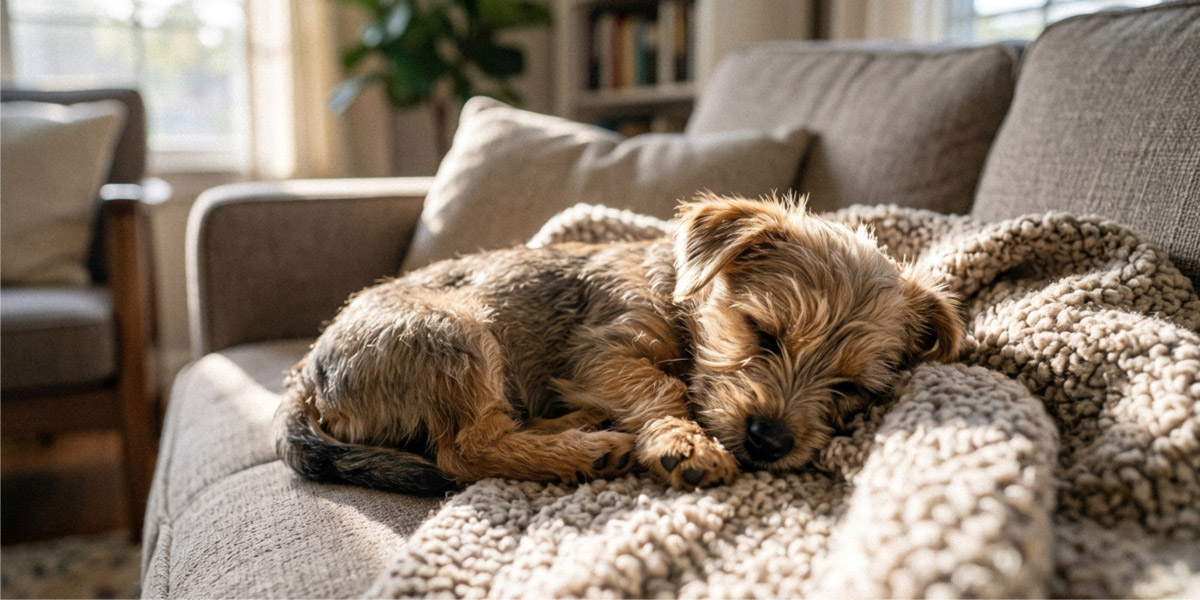
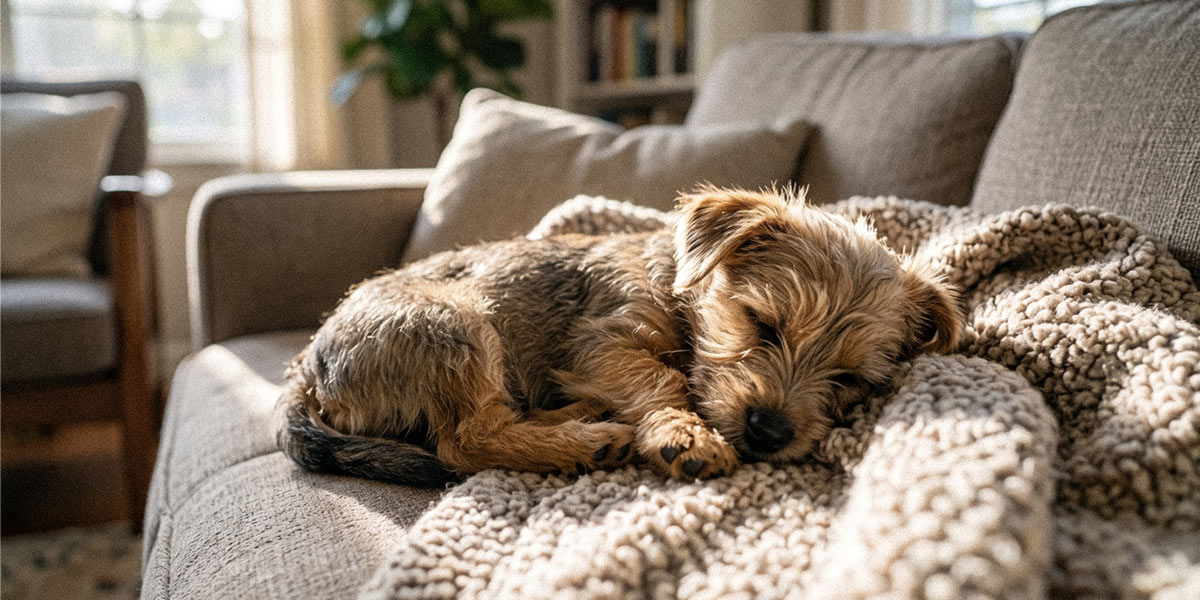
Fix classic Outlook issues found in Email on Acid
- Image blocks use a normal line height, so classic Outlook no longer
  crops the photos and header to a 28px strip
- Headings and the button use weight 700, because Arial at 800 turns
  into Arial Black on Windows
- The header logo is the <h1>; the impact line and 'Your receipt' are <h2>s
- Both photos re-exported under 200KB, and CLAUDE.md updated to match
- Classic Outlook screenshots (light, dark and before the fix) on index.html
- NOTES.md: my notes from 2026-10-20

diff --git a/dist/appeal-preview.html b/dist/appeal-preview.html
@@ -31,10 +31,10 @@
     <![endif]-->
     
       <!--[if !mso]><!-->
-        <link href="https://fonts.googleapis.com/css2?family=Nunito+Sans:wght@800&display=swap" rel="stylesheet" type="text/css">
+        <link href="https://fonts.googleapis.com/css2?family=Nunito+Sans:wght@700&display=swap" rel="stylesheet" type="text/css">
 <link href="https://fonts.googleapis.com/css2?family=Atkinson+Hyperlegible:wght@400;700&display=swap" rel="stylesheet" type="text/css">
         <style type="text/css">
-          @import url(https://fonts.googleapis.com/css2?family=Nunito+Sans:wght@800&display=swap);
+          @import url(https://fonts.googleapis.com/css2?family=Nunito+Sans:wght@700&display=swap);
 @import url(https://fonts.googleapis.com/css2?family=Atkinson+Hyperlegible:wght@400;700&display=swap);
         </style>
       <!--<![endif]-->
@@ -95,7 +95,7 @@
               <tr>
                 <td align="left" class="header" style="font-size:0px;padding:0;word-break:break-word;">
                   
-      <div style="font-family:'Atkinson Hyperlegible', Arial, sans-serif;font-size:17px;line-height:28px;text-align:left;color:#001f3d;"><img src="https://shadelourens.github.io/fernhollow-emails/assets/header.png" width="600" height="89" alt="Fernhollow Animal Alliance" style="display:block; width:100%; max-width:600px; height:auto; border:0; font-family:'Nunito Sans', Arial, sans-serif; font-size:26px; font-weight:800; color:#f8dcbf;"></div>
+      <div style="font-family:'Atkinson Hyperlegible', Arial, sans-serif;font-size:17px;line-height:normal;text-align:left;color:#001f3d;"><h1 style="margin:0;"><img src="https://shadelourens.github.io/fernhollow-emails/assets/header.png" width="600" height="89" alt="Fernhollow Animal Alliance" style="display:block; width:100%; max-width:600px; height:auto; border:0; font-family:'Nunito Sans', Arial, sans-serif; font-size:26px; font-weight:700; color:#f8dcbf;"></h1></div>
     
                 </td>
               </tr>
@@ -200,7 +200,7 @@
               <tr>
                 <td align="left" class="en__component en__component--imageblock" style="font-size:0px;padding:0 40px;word-break:break-word;">
                   
-      <div style="font-family:'Atkinson Hyperlegible', Arial, sans-serif;font-size:17px;line-height:28px;text-align:left;color:#001f3d;"><img src="https://shadelourens.github.io/fernhollow-emails/assets/biscuit.jpg" width="520" height="260" alt="Biscuit, a small scruffy puppy, sitting on green grass." style="
+      <div style="font-family:'Atkinson Hyperlegible', Arial, sans-serif;font-size:17px;line-height:normal;text-align:left;color:#001f3d;"><img src="https://shadelourens.github.io/fernhollow-emails/assets/biscuit.jpg" width="520" height="260" alt="Biscuit, a small scruffy puppy, sitting on green grass." style="
               display: block;
               width: 100%;
               max-width: 520px;
@@ -314,8 +314,8 @@
               <tr>
                 <td align="center" class="en__component en__component--textblock" style="font-size:0px;padding:0 28px 22px;word-break:break-word;">
                   
-      <div style="font-family:'Nunito Sans', Arial, sans-serif;font-size:21px;font-weight:800;line-height:29px;text-align:center;color:#001f3d;">$50 helps give a rescued dog vaccinations and a safe place to
-            recover.</div>
+      <div style="font-family:'Nunito Sans', Arial, sans-serif;font-size:21px;font-weight:700;line-height:29px;text-align:center;color:#001f3d;"><h2 style="margin:0; font-family:'Nunito Sans', Arial, sans-serif; font-size:21px; line-height:29px; font-weight:700; color:#001f3d;">$50 helps give a rescued dog vaccinations and a safe place to
+            recover.</h2></div>
     
                 </td>
               </tr>
@@ -327,7 +327,7 @@
         <tbody>
           <tr>
             <td align="center" bgcolor="#ffa000" role="presentation" style="border:none;border-radius:999px;cursor:auto;mso-padding-alt:17px 40px;background:#ffa000;" valign="middle">
-              <a href="https://shadelourens.github.io/fernhollow-portfolio/?utm_source=email&utm_medium=email&utm_campaign=second-chances&utm_content=give-50-button" style="display: inline-block; background: #ffa000; color: #001f3d; font-family: 'Nunito Sans', Arial, sans-serif; font-size: 18px; font-weight: 800; line-height: 120%; margin: 0; text-decoration: none; text-transform: none; padding: 17px 40px; mso-padding-alt: 0px; border-radius: 999px;" target="_blank">
+              <a href="https://shadelourens.github.io/fernhollow-portfolio/?utm_source=email&utm_medium=email&utm_campaign=second-chances&utm_content=give-50-button" style="display: inline-block; background: #ffa000; color: #001f3d; font-family: 'Nunito Sans', Arial, sans-serif; font-size: 18px; font-weight: 700; line-height: 120%; margin: 0; text-decoration: none; text-transform: none; padding: 17px 40px; mso-padding-alt: 0px; border-radius: 999px;" target="_blank">
                 Give $50 today
               </a>
             </td>

diff --git a/dist/appeal.html b/dist/appeal.html
@@ -31,10 +31,10 @@
     <![endif]-->
     
       <!--[if !mso]><!-->
-        <link href="https://fonts.googleapis.com/css2?family=Nunito+Sans:wght@800&display=swap" rel="stylesheet" type="text/css">
+        <link href="https://fonts.googleapis.com/css2?family=Nunito+Sans:wght@700&display=swap" rel="stylesheet" type="text/css">
 <link href="https://fonts.googleapis.com/css2?family=Atkinson+Hyperlegible:wght@400;700&display=swap" rel="stylesheet" type="text/css">
         <style type="text/css">
-          @import url(https://fonts.googleapis.com/css2?family=Nunito+Sans:wght@800&display=swap);
+          @import url(https://fonts.googleapis.com/css2?family=Nunito+Sans:wght@700&display=swap);
 @import url(https://fonts.googleapis.com/css2?family=Atkinson+Hyperlegible:wght@400;700&display=swap);
         </style>
       <!--<![endif]-->
@@ -95,7 +95,7 @@
               <tr>
                 <td align="left" class="header" style="font-size:0px;padding:0;word-break:break-word;">
                   
-      <div style="font-family:'Atkinson Hyperlegible', Arial, sans-serif;font-size:17px;line-height:28px;text-align:left;color:#001f3d;"><img src="https://shadelourens.github.io/fernhollow-emails/assets/header.png" width="600" height="89" alt="Fernhollow Animal Alliance" style="display:block; width:100%; max-width:600px; height:auto; border:0; font-family:'Nunito Sans', Arial, sans-serif; font-size:26px; font-weight:800; color:#f8dcbf;"></div>
+      <div style="font-family:'Atkinson Hyperlegible', Arial, sans-serif;font-size:17px;line-height:normal;text-align:left;color:#001f3d;"><h1 style="margin:0;"><img src="https://shadelourens.github.io/fernhollow-emails/assets/header.png" width="600" height="89" alt="Fernhollow Animal Alliance" style="display:block; width:100%; max-width:600px; height:auto; border:0; font-family:'Nunito Sans', Arial, sans-serif; font-size:26px; font-weight:700; color:#f8dcbf;"></h1></div>
     
                 </td>
               </tr>
@@ -200,7 +200,7 @@
               <tr>
                 <td align="left" class="en__component en__component--imageblock" style="font-size:0px;padding:0 40px;word-break:break-word;">
                   
-      <div style="font-family:'Atkinson Hyperlegible', Arial, sans-serif;font-size:17px;line-height:28px;text-align:left;color:#001f3d;"><img src="https://shadelourens.github.io/fernhollow-emails/assets/biscuit.jpg" width="520" height="260" alt="Biscuit, a small scruffy puppy, sitting on green grass." style="
+      <div style="font-family:'Atkinson Hyperlegible', Arial, sans-serif;font-size:17px;line-height:normal;text-align:left;color:#001f3d;"><img src="https://shadelourens.github.io/fernhollow-emails/assets/biscuit.jpg" width="520" height="260" alt="Biscuit, a small scruffy puppy, sitting on green grass." style="
               display: block;
               width: 100%;
               max-width: 520px;
@@ -314,8 +314,8 @@
               <tr>
                 <td align="center" class="en__component en__component--textblock" style="font-size:0px;padding:0 28px 22px;word-break:break-word;">
                   
-      <div style="font-family:'Nunito Sans', Arial, sans-serif;font-size:21px;font-weight:800;line-height:29px;text-align:center;color:#001f3d;">$50 helps give a rescued dog vaccinations and a safe place to
-            recover.</div>
+      <div style="font-family:'Nunito Sans', Arial, sans-serif;font-size:21px;font-weight:700;line-height:29px;text-align:center;color:#001f3d;"><h2 style="margin:0; font-family:'Nunito Sans', Arial, sans-serif; font-size:21px; line-height:29px; font-weight:700; color:#001f3d;">$50 helps give a rescued dog vaccinations and a safe place to
+            recover.</h2></div>
     
                 </td>
               </tr>
@@ -327,7 +327,7 @@
         <tbody>
           <tr>
             <td align="center" bgcolor="#ffa000" role="presentation" style="border:none;border-radius:999px;cursor:auto;mso-padding-alt:17px 40px;background:#ffa000;" valign="middle">
-              <a href="https://shadelourens.github.io/fernhollow-portfolio/?utm_source=email&utm_medium=email&utm_campaign=second-chances&utm_content=give-50-button" style="display: inline-block; background: #ffa000; color: #001f3d; font-family: 'Nunito Sans', Arial, sans-serif; font-size: 18px; font-weight: 800; line-height: 120%; margin: 0; text-decoration: none; text-transform: none; padding: 17px 40px; mso-padding-alt: 0px; border-radius: 999px;" target="_blank">
+              <a href="https://shadelourens.github.io/fernhollow-portfolio/?utm_source=email&utm_medium=email&utm_campaign=second-chances&utm_content=give-50-button" style="display: inline-block; background: #ffa000; color: #001f3d; font-family: 'Nunito Sans', Arial, sans-serif; font-size: 18px; font-weight: 700; line-height: 120%; margin: 0; text-decoration: none; text-transform: none; padding: 17px 40px; mso-padding-alt: 0px; border-radius: 999px;" target="_blank">
                 Give $50 today
               </a>
             </td>

diff --git a/index.html b/index.html
@@ -389,6 +389,20 @@
                 >dark mode</a
               >
             </div>
+            <!-- Classic Outlook cropped the images until the image blocks got a normal line height -->
+            <div class="inbox">
+              <strong>Outlook on Windows</strong>
+              <a href="screenshots/inbox-appeal-outlook-windows-light.png"
+                >light</a
+              >
+              <a href="screenshots/inbox-appeal-outlook-windows-dark.png"
+                >dark mode</a
+              >
+              <a
+                href="screenshots/inbox-appeal-outlook-windows-light-before-fix.png"
+                >before the fix (images cropped)</a
+              >
+            </div>
             <div class="inbox">
               <strong>Images turned off</strong>
               <a href="screenshots/inbox-appeal-apple-mail-mac-images-off.png"
@@ -409,23 +423,37 @@
 
           <div class="versions">
             <div>
-              <a class="version-link" href="dist/receipt-preview.html">Preview of the receipt</a>
+              <a class="version-link" href="dist/receipt-preview.html"
+                >Preview of the receipt</a
+              >
               <span class="hint">(with sample data)</span>
             </div>
             <div>
-              <a class="version-link" href="dist/receipt.html">Engaging Networks version of the receipt</a>
+              <a class="version-link" href="dist/receipt.html"
+                >Engaging Networks version of the receipt</a
+              >
               <span class="hint">(shows the raw merge fields)</span>
             </div>
             <div>
-              <a href="dist/receipt-preview.txt"><strong>Plain-text preview</strong></a>
+              <a href="dist/receipt-preview.txt"
+                ><strong>Plain-text preview</strong></a
+              >
               and
-              <a href="text/receipt.txt"><strong>Engaging Networks plain text</strong></a>
+              <a href="text/receipt.txt"
+                ><strong>Engaging Networks plain text</strong></a
+              >
             </div>
             <div class="browser-shots">
               <strong>In the browser:</strong>
-              <a class="chip" href="screenshots/browser-receipt-600.png">600px</a>
-              <a class="chip" href="screenshots/browser-receipt-320.png">320px phone</a>
-              <a class="chip" href="screenshots/browser-receipt-images-off.png">images turned off</a>
+              <a class="chip" href="screenshots/browser-receipt-600.png"
+                >600px</a
+              >
+              <a class="chip" href="screenshots/browser-receipt-320.png"
+                >320px phone</a
+              >
+              <a class="chip" href="screenshots/browser-receipt-images-off.png"
+                >images turned off</a
+              >
             </div>
           </div>
 
@@ -433,16 +461,33 @@
           <div class="inboxes">
             <div class="inbox">
               <strong>Gmail</strong>
-              <a href="screenshots/inbox-receipt-gmail-app-light-bottom.png">phone app</a>
-              <a href="screenshots/inbox-receipt-gmail-app-dark-bottom.png">phone app in dark mode</a>
+              <a href="screenshots/inbox-receipt-gmail-app-light-bottom.png"
+                >phone app</a
+              >
+              <a href="screenshots/inbox-receipt-gmail-app-dark-bottom.png"
+                >phone app in dark mode</a
+              >
             </div>
             <div class="inbox">
               <strong>Outlook.com</strong>
-              <a href="screenshots/inbox-receipt-outlook-web-light.png">light</a>
+              <a href="screenshots/inbox-receipt-outlook-web-light.png"
+                >light</a
+              >
+            </div>
+            <div class="inbox">
+              <strong>Outlook on Windows</strong>
+              <a href="screenshots/inbox-receipt-outlook-windows-light.png"
+                >light</a
+              >
+              <a href="screenshots/inbox-receipt-outlook-windows-dark.png"
+                >dark mode</a
+              >
             </div>
             <div class="inbox">
               <strong>Images turned off</strong>
-              <a href="screenshots/inbox-receipt-gmail-app-images-off.png">Gmail</a>
+              <a href="screenshots/inbox-receipt-gmail-app-images-off.png"
+                >Gmail</a
+              >
             </div>
           </div>
         </section>

diff --git a/dist/receipt-preview.html b/dist/receipt-preview.html
@@ -31,10 +31,10 @@
     <![endif]-->
     
       <!--[if !mso]><!-->
-        <link href="https://fonts.googleapis.com/css2?family=Nunito+Sans:wght@800&display=swap" rel="stylesheet" type="text/css">
+        <link href="https://fonts.googleapis.com/css2?family=Nunito+Sans:wght@700&display=swap" rel="stylesheet" type="text/css">
 <link href="https://fonts.googleapis.com/css2?family=Atkinson+Hyperlegible:wght@400;700&display=swap" rel="stylesheet" type="text/css">
         <style type="text/css">
-          @import url(https://fonts.googleapis.com/css2?family=Nunito+Sans:wght@800&display=swap);
+          @import url(https://fonts.googleapis.com/css2?family=Nunito+Sans:wght@700&display=swap);
 @import url(https://fonts.googleapis.com/css2?family=Atkinson+Hyperlegible:wght@400;700&display=swap);
         </style>
       <!--<![endif]-->
@@ -95,7 +95,7 @@
               <tr>
                 <td align="left" class="header" style="font-size:0px;padding:0;word-break:break-word;">
                   
-      <div style="font-family:'Atkinson Hyperlegible', Arial, sans-serif;font-size:17px;line-height:28px;text-align:left;color:#001f3d;"><img src="https://shadelourens.github.io/fernhollow-emails/assets/header.png" width="600" height="89" alt="Fernhollow Animal Alliance" style="display:block; width:100%; max-width:600px; height:auto; border:0; font-family:'Nunito Sans', Arial, sans-serif; font-size:26px; font-weight:800; color:#f8dcbf;"></div>
+      <div style="font-family:'Atkinson Hyperlegible', Arial, sans-serif;font-size:17px;line-height:normal;text-align:left;color:#001f3d;"><h1 style="margin:0;"><img src="https://shadelourens.github.io/fernhollow-emails/assets/header.png" width="600" height="89" alt="Fernhollow Animal Alliance" style="display:block; width:100%; max-width:600px; height:auto; border:0; font-family:'Nunito Sans', Arial, sans-serif; font-size:26px; font-weight:700; color:#f8dcbf;"></h1></div>
     
                 </td>
               </tr>
@@ -195,7 +195,7 @@
               <tr>
                 <td align="left" class="en__component en__component--imageblock" style="font-size:0px;padding:0 40px;word-break:break-word;">
                   
-      <div style="font-family:'Atkinson Hyperlegible', Arial, sans-serif;font-size:17px;line-height:28px;text-align:left;color:#001f3d;"><img src="https://shadelourens.github.io/fernhollow-emails/assets/biscuit-sofa.jpg" width="520" height="260" alt="Biscuit, asleep and curled up on a soft blanket on a sofa." style="display:block; width:100%; max-width:520px; height:auto; border:0; border-radius:12px;"></div>
+      <div style="font-family:'Atkinson Hyperlegible', Arial, sans-serif;font-size:17px;line-height:normal;text-align:left;color:#001f3d;"><img src="https://shadelourens.github.io/fernhollow-emails/assets/biscuit-sofa.jpg" width="520" height="260" alt="Biscuit, asleep and curled up on a soft blanket on a sofa." style="display:block; width:100%; max-width:520px; height:auto; border:0; border-radius:12px;"></div>
     
                 </td>
               </tr>
@@ -246,7 +246,7 @@
               <tr>
                 <td align="left" class="en__component en__component--textblock" style="font-size:0px;padding:0 28px 12px;word-break:break-word;">
                   
-      <div style="font-family:'Nunito Sans', Arial, sans-serif;font-size:21px;font-weight:800;line-height:29px;text-align:left;color:#001f3d;">Your receipt</div>
+      <div style="font-family:'Nunito Sans', Arial, sans-serif;font-size:21px;font-weight:700;line-height:29px;text-align:left;color:#001f3d;"><h2 style="margin:0; font-family:'Nunito Sans', Arial, sans-serif; font-size:21px; line-height:29px; font-weight:700; color:#001f3d;">Your receipt</h2></div>
     
                 </td>
               </tr>

diff --git a/dist/receipt.html b/dist/receipt.html
@@ -31,10 +31,10 @@
     <![endif]-->
     
       <!--[if !mso]><!-->
-        <link href="https://fonts.googleapis.com/css2?family=Nunito+Sans:wght@800&display=swap" rel="stylesheet" type="text/css">
+        <link href="https://fonts.googleapis.com/css2?family=Nunito+Sans:wght@700&display=swap" rel="stylesheet" type="text/css">
 <link href="https://fonts.googleapis.com/css2?family=Atkinson+Hyperlegible:wght@400;700&display=swap" rel="stylesheet" type="text/css">
         <style type="text/css">
-          @import url(https://fonts.googleapis.com/css2?family=Nunito+Sans:wght@800&display=swap);
+          @import url(https://fonts.googleapis.com/css2?family=Nunito+Sans:wght@700&display=swap);
 @import url(https://fonts.googleapis.com/css2?family=Atkinson+Hyperlegible:wght@400;700&display=swap);
         </style>
       <!--<![endif]-->
@@ -95,7 +95,7 @@
               <tr>
                 <td align="left" class="header" style="font-size:0px;padding:0;word-break:break-word;">
                   
-      <div style="font-family:'Atkinson Hyperlegible', Arial, sans-serif;font-size:17px;line-height:28px;text-align:left;color:#001f3d;"><img src="https://shadelourens.github.io/fernhollow-emails/assets/header.png" width="600" height="89" alt="Fernhollow Animal Alliance" style="display:block; width:100%; max-width:600px; height:auto; border:0; font-family:'Nunito Sans', Arial, sans-serif; font-size:26px; font-weight:800; color:#f8dcbf;"></div>
+      <div style="font-family:'Atkinson Hyperlegible', Arial, sans-serif;font-size:17px;line-height:normal;text-align:left;color:#001f3d;"><h1 style="margin:0;"><img src="https://shadelourens.github.io/fernhollow-emails/assets/header.png" width="600" height="89" alt="Fernhollow Animal Alliance" style="display:block; width:100%; max-width:600px; height:auto; border:0; font-family:'Nunito Sans', Arial, sans-serif; font-size:26px; font-weight:700; color:#f8dcbf;"></h1></div>
     
                 </td>
               </tr>
@@ -195,7 +195,7 @@
               <tr>
                 <td align="left" class="en__component en__component--imageblock" style="font-size:0px;padding:0 40px;word-break:break-word;">
                   
-      <div style="font-family:'Atkinson Hyperlegible', Arial, sans-serif;font-size:17px;line-height:28px;text-align:left;color:#001f3d;"><img src="https://shadelourens.github.io/fernhollow-emails/assets/biscuit-sofa.jpg" width="520" height="260" alt="Biscuit, asleep and curled up on a soft blanket on a sofa." style="display:block; width:100%; max-width:520px; height:auto; border:0; border-radius:12px;"></div>
+      <div style="font-family:'Atkinson Hyperlegible', Arial, sans-serif;font-size:17px;line-height:normal;text-align:left;color:#001f3d;"><img src="https://shadelourens.github.io/fernhollow-emails/assets/biscuit-sofa.jpg" width="520" height="260" alt="Biscuit, asleep and curled up on a soft blanket on a sofa." style="display:block; width:100%; max-width:520px; height:auto; border:0; border-radius:12px;"></div>
     
                 </td>
               </tr>
@@ -246,7 +246,7 @@
               <tr>
                 <td align="left" class="en__component en__component--textblock" style="font-size:0px;padding:0 28px 12px;word-break:break-word;">
                   
-      <div style="font-family:'Nunito Sans', Arial, sans-serif;font-size:21px;font-weight:800;line-height:29px;text-align:left;color:#001f3d;">Your receipt</div>
+      <div style="font-family:'Nunito Sans', Arial, sans-serif;font-size:21px;font-weight:700;line-height:29px;text-align:left;color:#001f3d;"><h2 style="margin:0; font-family:'Nunito Sans', Arial, sans-serif; font-size:21px; line-height:29px; font-weight:700; color:#001f3d;">Your receipt</h2></div>
     
                 </td>
               </tr>

diff --git a/NOTES.md b/NOTES.md
@@ -98,3 +98,71 @@
 - Step 3: the receipt email, with a copy draft first.
 - Email on Acid for classic Outlook on Windows, once both emails are done.
 - README.
+
+### Later on 2026-10-19
+
+**Asked Claude to:** restyle the project page, look up EN's receipt fields, draft the receipt copy, then build and test the receipt.
+
+**What I changed:**
+
+- Restyled `index.html` from my design: a white header with the logo, a campaign tag, cards for each email's versions, inbox cards with orange ➜ arrows instead of underlines, and a navy footer.
+- Found EN's real receipt fields on its "Receipt Data Tags" page, so no placeholders were needed: `{receipt_data~amount~[en]}`, `{receipt_data~createdOn~[yyyy-MM-dd]}` and `{receipt_data~txId}`, plus `{user_data~Email}`.
+- Built `src/receipt.mjml` and `text/receipt.txt`. They reuse the shared header, styles and footer, and the receipt details sit in the same cream box as the appeal's impact box.
+- Added the receipt to `build.js`, so the same merge-field checks run on it. The receipt HTML is 21.7KB.
+- Added Biscuit's sofa photo as `assets/biscuit-sofa.jpg`.
+- Did a test send and added the receipt's screenshots to the project page.
+
+**Decisions I made:**
+
+- Changed Claude's draft so it works as a real US receipt:
+  - "receipt" in the subject, because donors search for it at tax time
+  - 501(c)(3) wording instead of "registered charity"
+  - a sentence telling monthly donors they get one receipt each January
+  - "Receipt sent to:"
+  - a plain-number sample reference
+- Kept the receipt transactional: no unsubscribe link and no marketing links. The photo thanks the donor without asking for anything.
+- The date uses `yyyy-MM-dd`, the only format EN's docs show. I wanted "October 19, 2026", but couldn't confirm that pattern, so the README will say to choose a US format in EN's insert tool instead of guessing.
+- Removed Biscuit's photo from the project page, because the page is a signpost to the emails.
+
+**Tested:**
+
+- Gmail app (light, dark and before images loaded) and Outlook.com: the receipt box and photo look right everywhere.
+- Gmail turns the donor's email address into a blue link, and with images off it shows an empty frame for the photo instead of the alt text. Neither breaks anything.
+
+**Still to do:**
+
+- Email on Acid for classic Outlook on Windows (about an hour).
+- Write the README.
+
+## 2026-10-20
+
+**Asked Claude to:** go through the Email on Acid (now Mailgun Inspect) results with me, fix what it found, and write reusable guides for future email projects.
+
+**What I changed:**
+
+- Ran both emails through Email on Acid on the Premium free trial: classic Outlook on Windows, accessibility, links, images and spam.
+- Fixed the images being cropped in classic Outlook. The image blocks had a 28px line height, and Outlook cut both photos and the header down to a 28px strip. Those blocks now use a normal line height.
+- Fixed the impact line and button showing in Arial Black in Outlook. Weight 800 plus Arial on Windows switches to Arial Black, so headings and the button now use weight 700.
+- Added an `<h1>` (the header logo) and `<h2>`s (the impact line and "Your receipt") for screen readers. They look the same as before.
+- Re-exported both photos from the originals to get them under 200KB (151KB and 175KB), and changed the rule in CLAUDE.md to match.
+- Added "Outlook on Windows" screenshots to the project page, including a "before the fix" one for the appeal.
+- Wrote two reusable guides for future projects: email-building lessons and Engaging Networks tips.
+
+**Decisions I made:**
+
+- Chose the Premium trial over Basic for its accessibility, link, image and spam checks, which match what the job asks for.
+- Kept the button without an underline. It's a filled button, so it clearly looks clickable, and CLAUDE.md allows this exception.
+- Showed the cropped "before" screenshot next to the fixed ones, because finding, fixing and proving a bug is part of QA.
+- Kept the two guides as separate documents, so a future project only gets the one it needs.
+
+**Tested:**
+
+- The retest in classic Outlook (light and dark) shows both emails in full, with normal bold headings.
+- The "heading one" warning is gone. The only accessibility note left is the button's missing underline.
+- Spam: everything passes except Yahoo, which is about the sandbox sender's reputation, not the content.
+- "Missing SSL certificate" on the unsubscribe link is a false alarm. I checked, and its HTTPS works.
+
+**Still to do:**
+
+- Write the README, including "How I worked with Claude Code".
+- Petition page, GitHub profile, LinkedIn, then the cover letter. Submit on Oct 24.

diff --git a/CLAUDE.md b/CLAUDE.md
@@ -102,7 +102,7 @@ Emails work differently from web pages, so some donation-page rules change here.
   - always full addresses, starting `https://shadelourens.github.io/fernhollow-emails/assets/`
   - twice the size they're shown at, with width and height set
   - JPG or PNG only, never SVG (Gmail and Outlook don't show SVG)
-  - photos compressed to 255KB or less.
+  - photos under 200KB (Email on Acid flags anything bigger). Compress from the original photo: re-compressing a JPEG makes it blockier, not smaller.
 - **Alt text** on every image. The header image's alt text is styled (font, size, color), so it still looks like a heading when images are blocked.
 - Real text, never text inside images, apart from the logo in the header.
 - **Fonts:** Nunito Sans for headings and buttons, Atkinson Hyperlegible for body text, with Arial as the backup. Gmail and Outlook will show Arial, so check that it still looks right.
